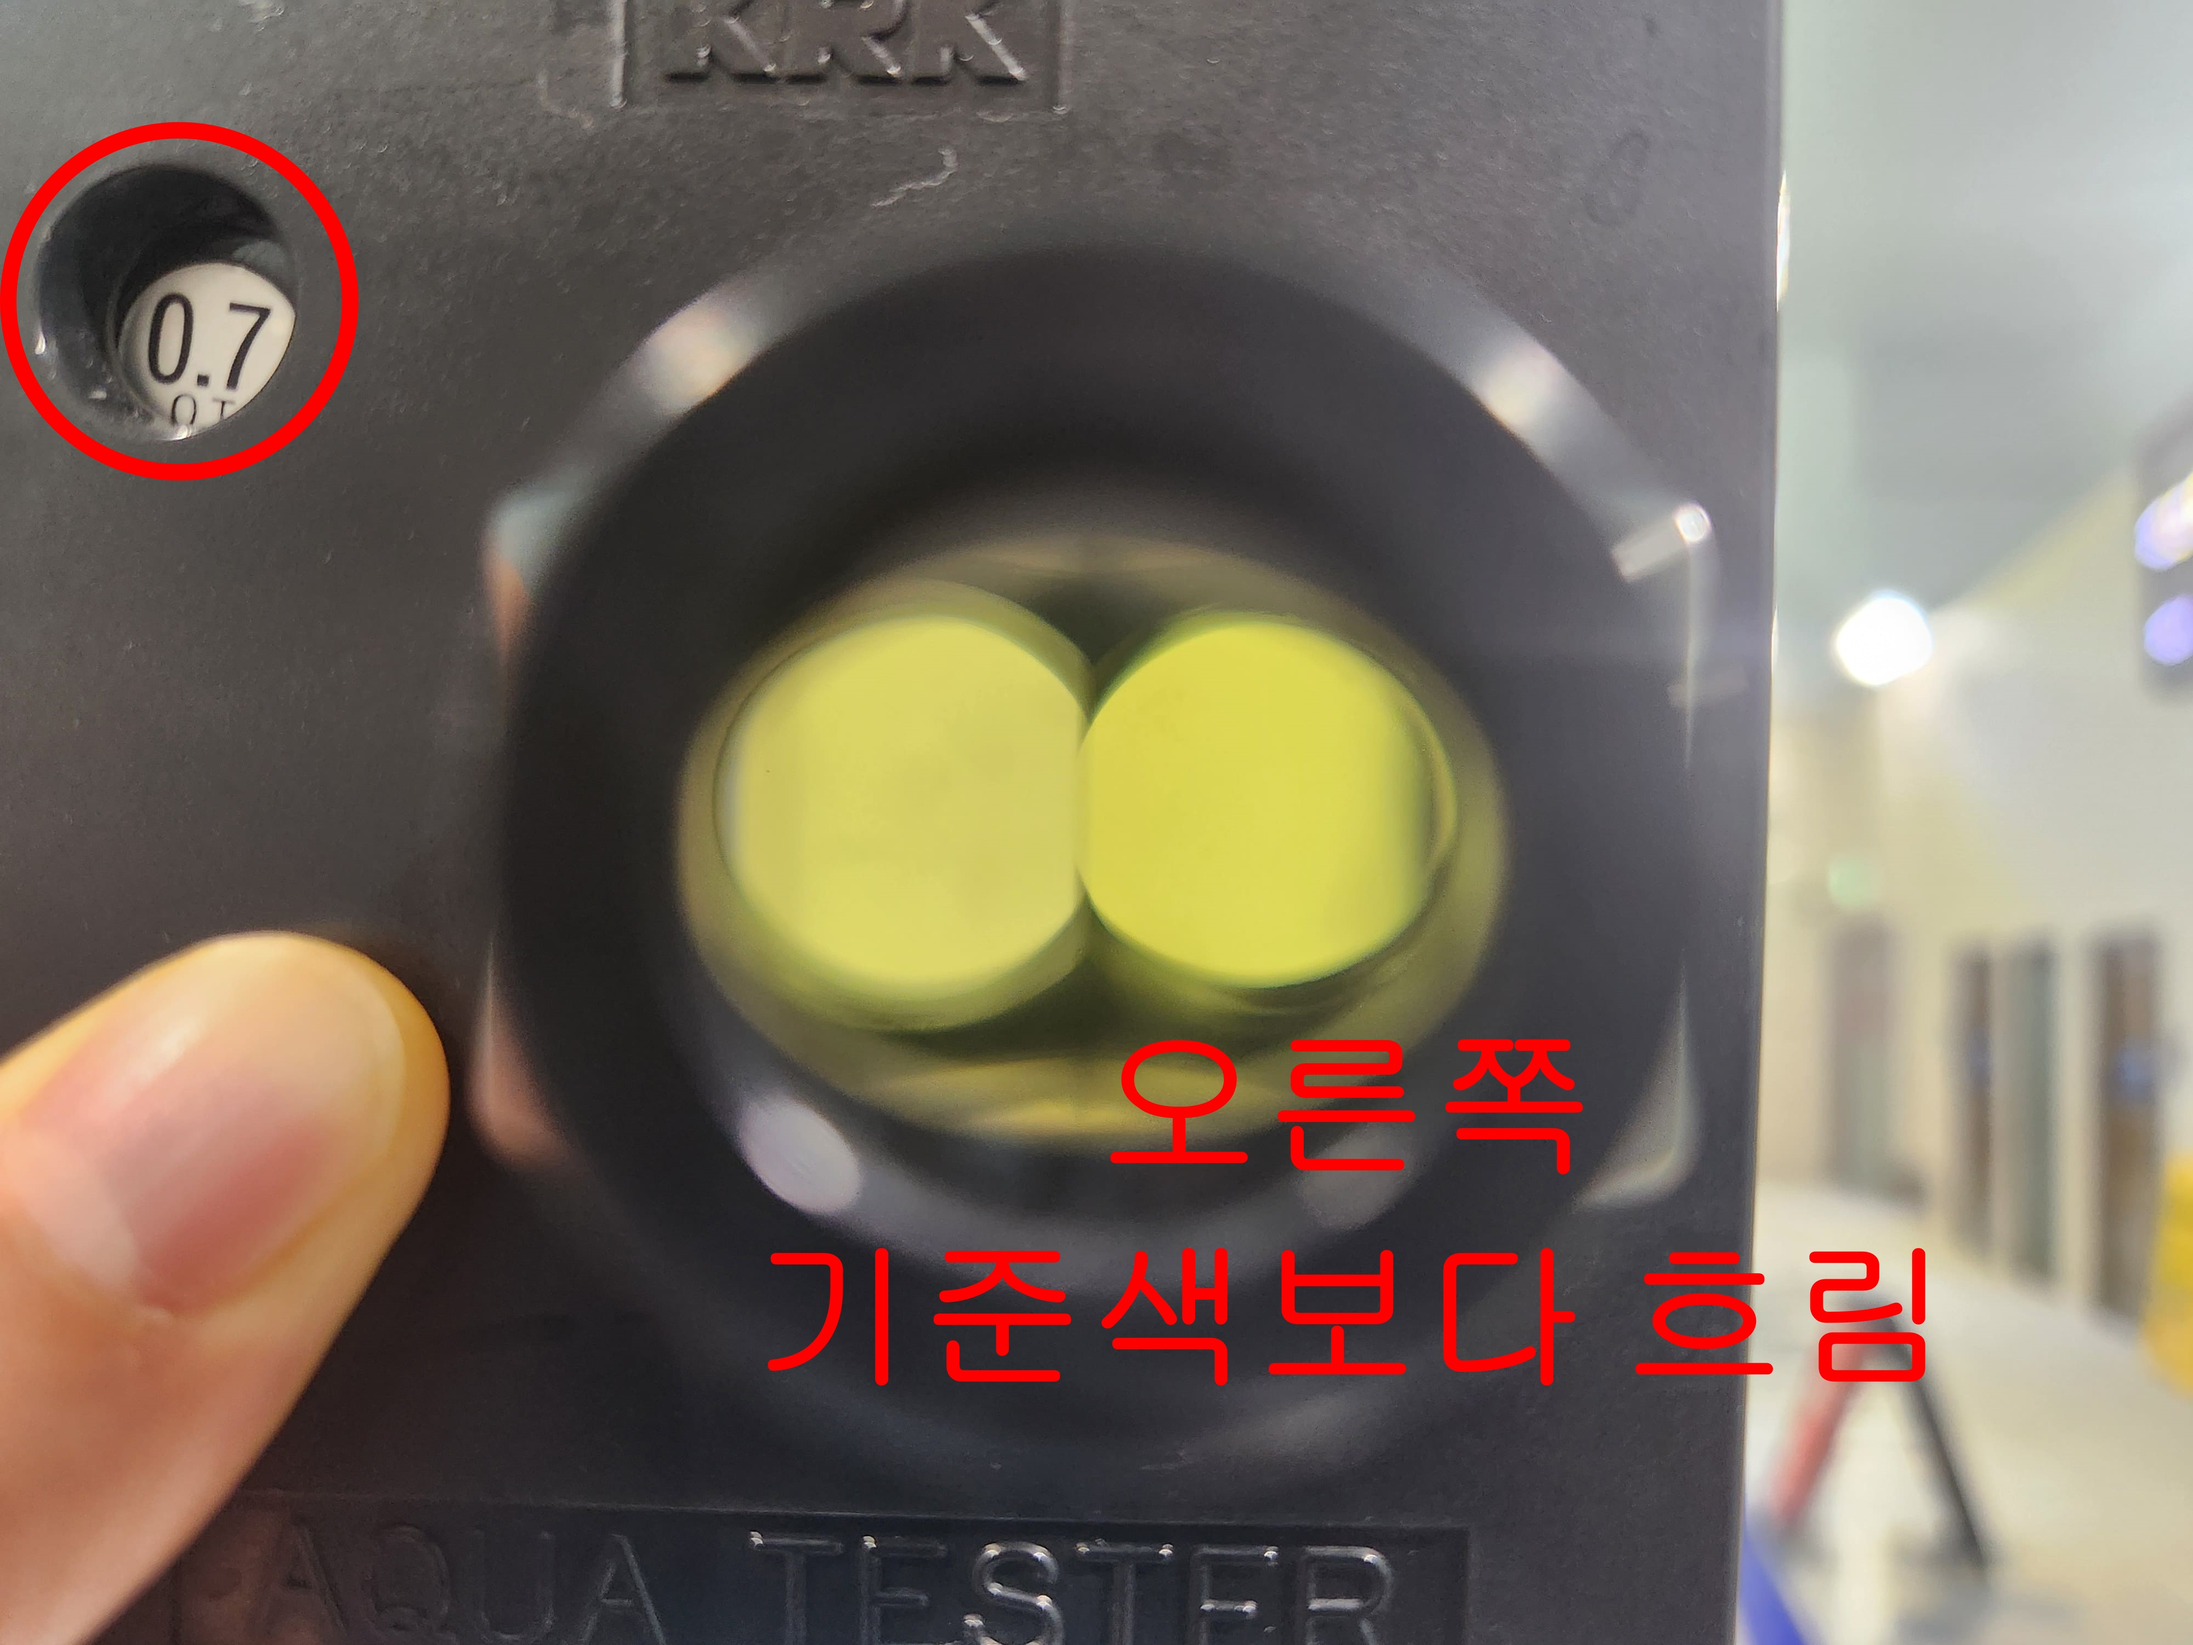
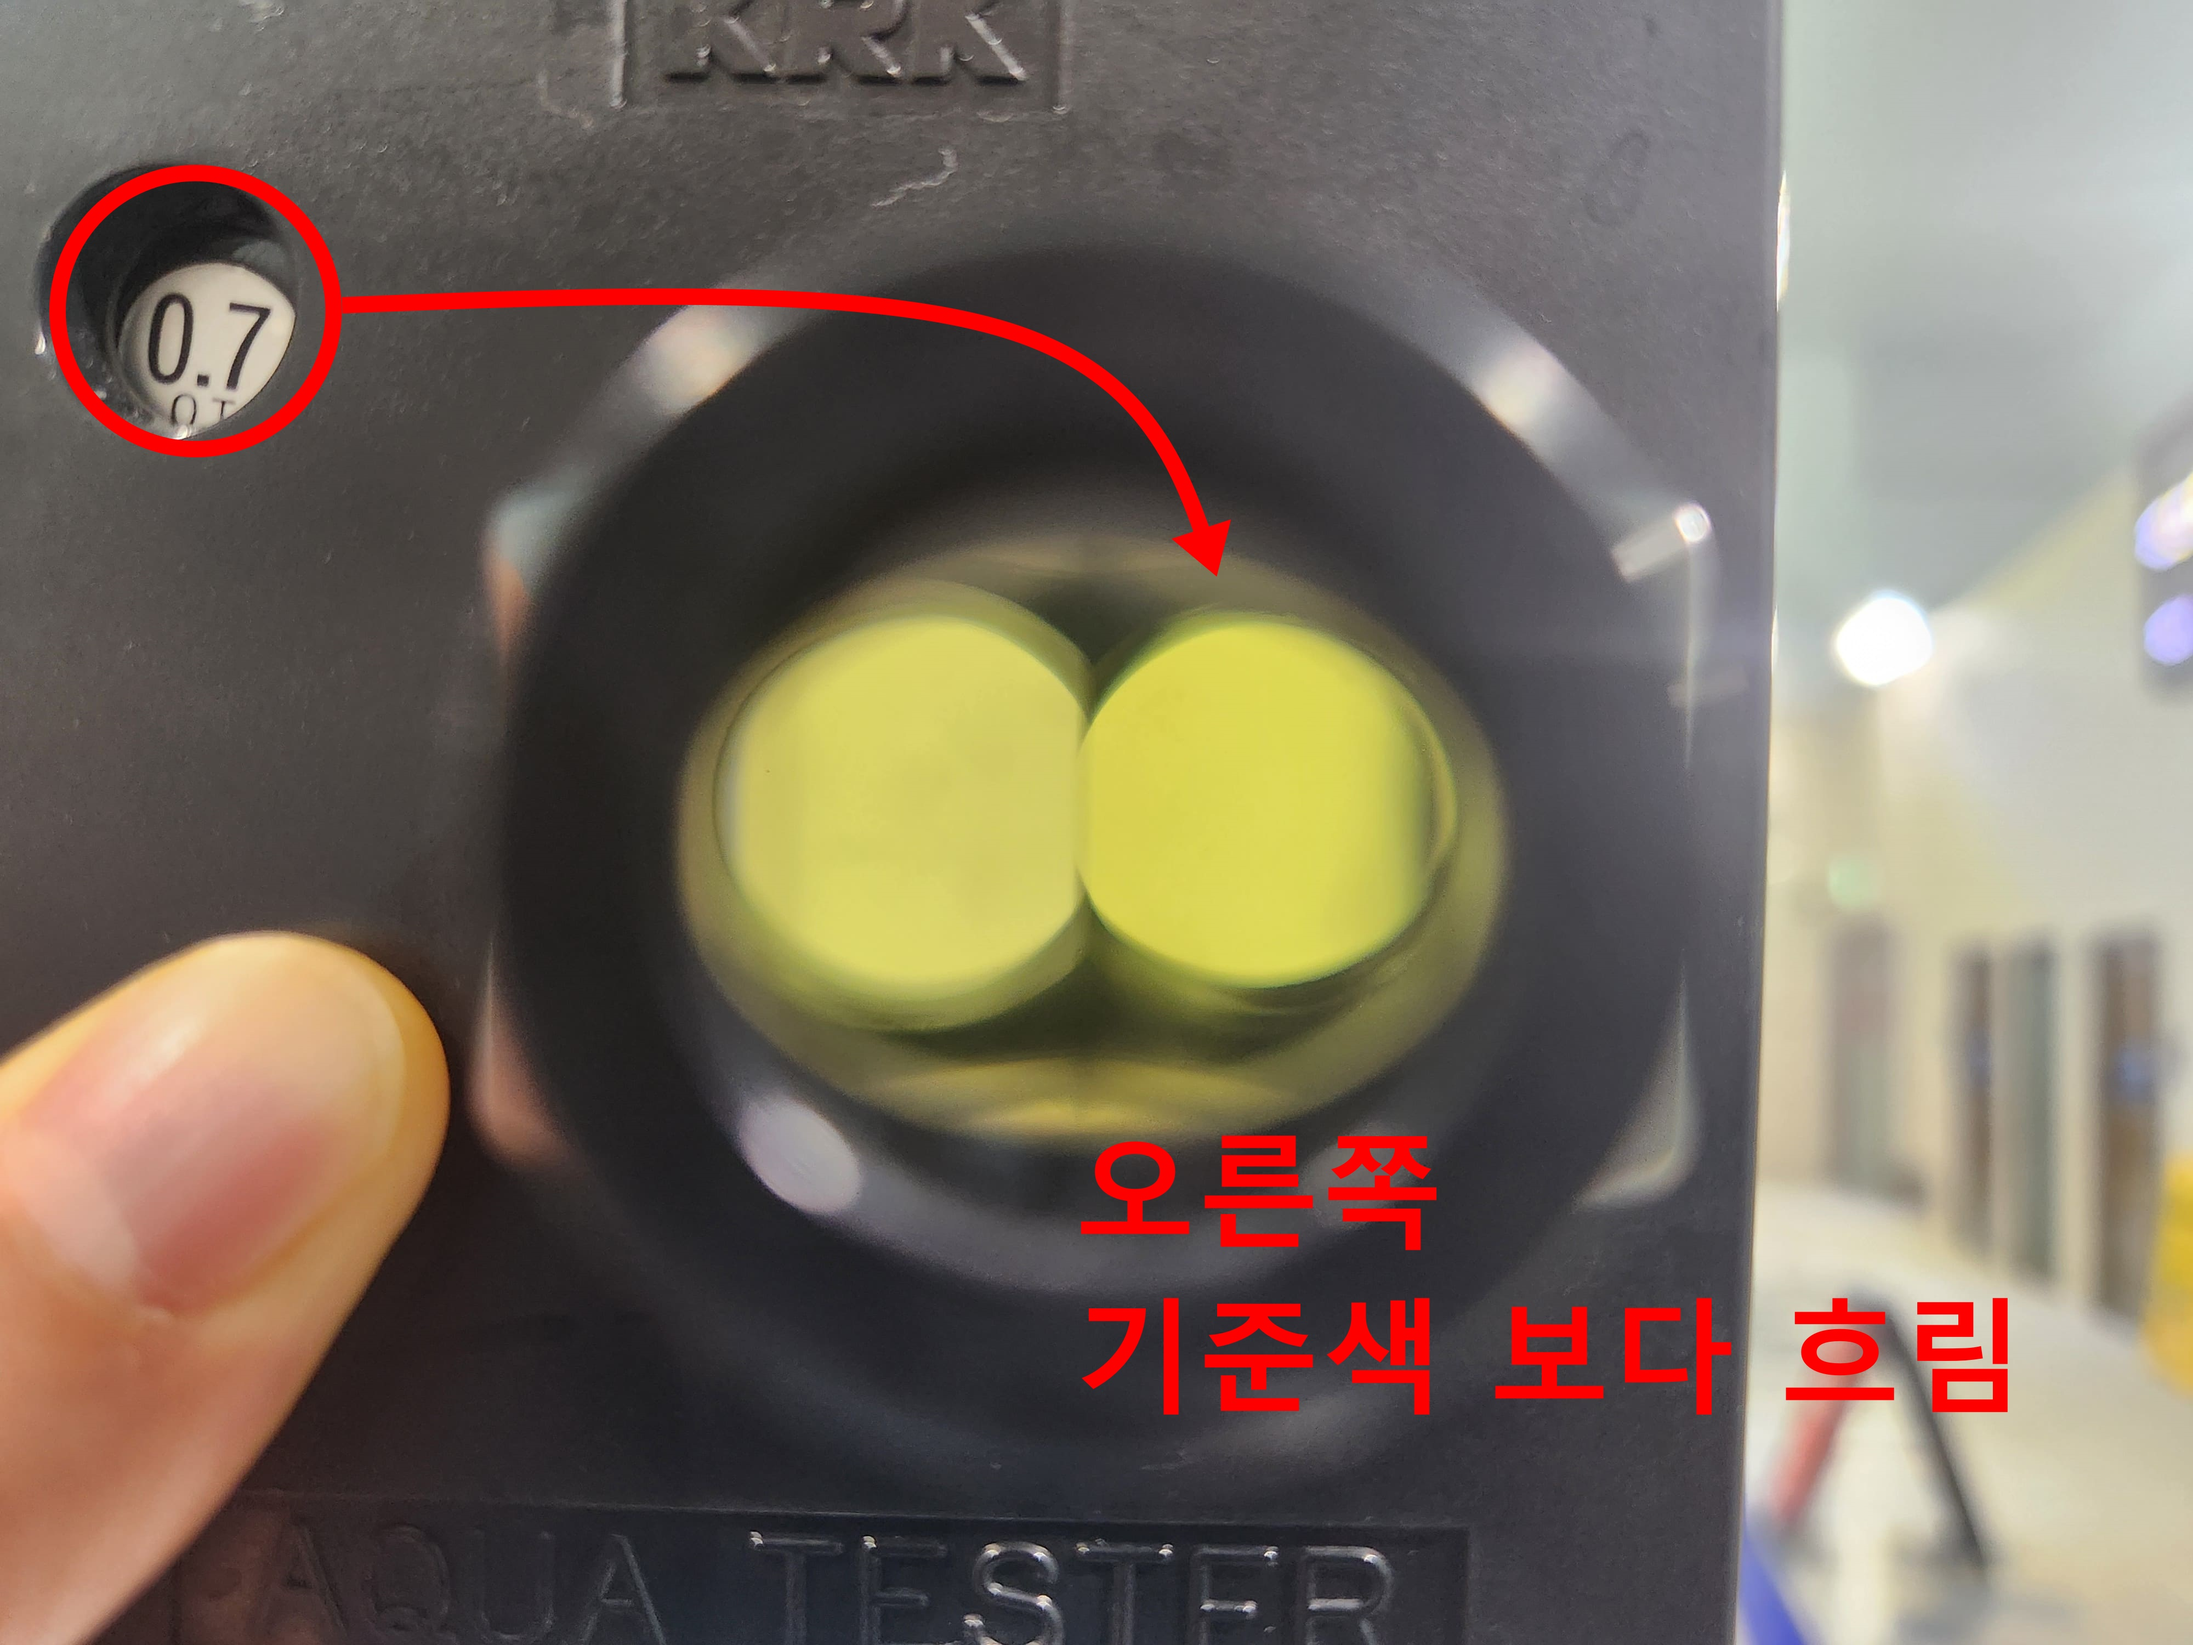
270

Changed region(s): [[0.3438, 0.62, 0.9375, 0.868], [0.0, 0.062, 0.5312, 0.31], [0.5312, 0.279, 0.5625, 0.341]]

diff --git a/public/gagyeong_sportscenter/tech_manual/manual_2_2_5_4_2.html b/public/gagyeong_sportscenter/tech_manual/manual_2_2_5_4_2.html
@@ -114,20 +114,20 @@
 								<span style="color: blue; font-weight: bold">
 									DPD(Diethyl-p-phenylenediamine) 측정기
 								</span>
-							</h3>
-							<div class="tooltip" style="color: blue">
-								<sup>[1]</sup>
-								<div class="tooltip-text">
-									<p>DPD 시약과 물속의 자유 염소(Free Chlorine)와 반응하면 분홍색으로 변함</p>
-									<p>색의 강도를 광학 센서(비색계)로 측정하여 염소 농도를 정밀하게 분석</p>
-									<strong>측정 가능 염소 종류</strong>
-									<ul>
-										<li>DPD 1 → 자유 염소(Free Chlorine) 측정</li>
-										<li>DPD 2 → 총 염소(Total Chlorine) 측정</li>
-										<li>DPD 3 → 결합 염소(Combined Chlorine) 측정 (총 염소 - 자유 염소)</li>
-									</ul>
+								<div class="tooltip" style="color: blue">
+									<sup>[1]</sup>
+									<div class="tooltip-text">
+										<p>DPD 시약과 물속의 자유 염소(Free Chlorine)와 반응하면 분홍색으로 변함</p>
+										<p>색의 강도를 광학 센서(비색계)로 측정하여 염소 농도를 정밀하게 분석</p>
+										<strong>측정 가능 염소 종류</strong>
+										<ul>
+											<li>DPD 1 → 자유 염소(Free Chlorine) 측정</li>
+											<li>DPD 2 → 총 염소(Total Chlorine) 측정</li>
+											<li>DPD 3 → 결합 염소(Combined Chlorine) 측정 (총 염소 - 자유 염소)</li>
+										</ul>
+									</div>
 								</div>
-							</div>
+							</h3>
 						</li>
 						<li>
 							<h3>
@@ -173,7 +173,7 @@
 						<div id="colorimeterMeasurement" style="display: none; margin-top: 10px">
 							<ul style="list-style-type: disc; padding-left: 20px; margin: 0">
 								<li>비색계 용기에 샘플 물을 10ml 약 1/2 정도 채운다.</li>
-								<p>용기에 눈끔 표시가 되어있다.</p>
+								<p>💡 용기에 눈끔 표시가 되어있다.</p>
 								<div class="image-container">
 									<div class="image-wrapper">
 										<img
@@ -196,7 +196,7 @@
 									</div>
 								</div>
 								<li>샘플수와 시약이 잘 섞이도록 흔들어준다. 물과 시약이 혼합되면 노란색으로 변한다.</li>
-								<p>염소 농도가 높을수록 노란색이 진해진다.</p>
+								<p>💡 염소 농도가 높을수록 노란색이 진해진다.</p>
 								<div class="image-container">
 									<div class="image-wrapper">
 										<img
@@ -249,7 +249,7 @@
 									</div>
 								</div>
 								<li>다이얼을 돌려가며 비색원판의 기준색을 정하고 비교한다.</li>
-								<p>비색원판은 현재 0.7이다. 왼쪽의 측정수를 기준색과 비교했을때 흐리다.</p>
+								<p>💡 비색원판은 현재 0.7이다. 왼쪽의 측정수를 기준색과 비교했을때 흐리다.</p>
 								<div class="image-container">
 									<div class="image-wrapper">
 										<img
@@ -261,7 +261,8 @@
 									</div>
 								</div>
 								<p>
-									다이얼을 돌려 비색원판은 현재 0.4이다. 왼쪽의 측정수를 기준색과 비교했을때 진하다.
+									💡 다이얼을 돌려 비색원판은 현재 0.4이다. 왼쪽의 측정수를 기준색과 비교했을때
+									진하다.
 								</p>
 								<div class="image-container">
 									<div class="image-wrapper">
@@ -274,12 +275,12 @@
 									</div>
 								</div>
 								<p>
-									0.4보다 진하고 0.7보다 흐리다. 잔류염소 측정치는 대략 0.5~0.6 사이이나 0.6에 조금더
-									가깝다. 측정 결과값은 0.6으로 본다.
+									💡 0.4보다 진하고 0.7보다 흐리다. 잔류염소 측정치는 대략 0.5~0.6 사이이나 0.6에
+									조금더 가깝다. 측정 결과값은 0.6으로 본다.
 								</p>
 								<p>
-									비색계보다 정확한 측정값을 원한다면 DPD 측정기(가루시약 측정)를 사용하여 보다 정확한
-									측정값을 얻을수 있다.
+									💡 비색계보다 정확한 측정값을 원한다면 DPD 측정기(가루시약 측정)를 사용하여 보다
+									정확한 측정값을 얻을수 있다.
 								</p>
 							</ul>
 						</div>
